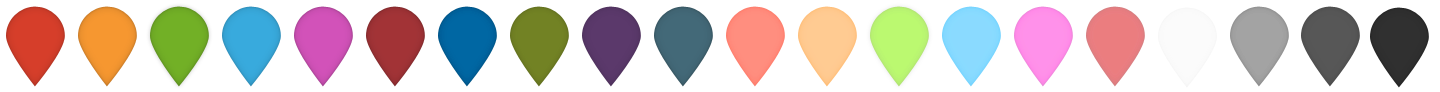
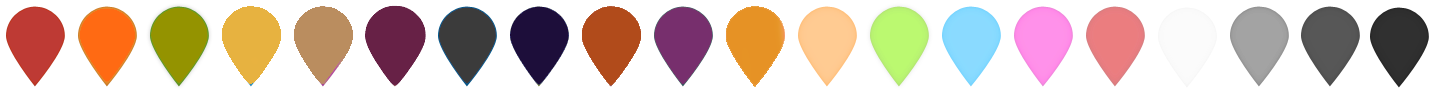
Improve colours, buttons, animations

Changed region(s): [[0.0312, 0.0652, 0.5625, 0.913]]

diff --git a/css/map.css b/css/map.css
@@ -121,8 +121,8 @@ html, body, #map {
 .persona-button {
     appearance: none;
     -webkit-appearance: none;
-    background: #ecebeb;
-    border: 0.5px solid #DEE0E2;
+    background: #ECEBEB;
+    border: 1px solid #DEE0E2;
     border-radius: 3px;
     box-sizing: border-box;
     color: #000;
@@ -137,6 +137,20 @@ html, body, #map {
     text-align: center;
     text-decoration: none;
     width: calc(50% - 6px);
+}
+
+@keyframes fade {
+    0% {
+        background: #fff;
+    }
+    100% {
+        background: #ECEBEB;
+    }
+}
+
+.persona-button--loading {
+    background: #fff;
+    animation: fade 2s 0s forwards;
 }
 
 @media (min-width: 768px) {
@@ -161,9 +175,30 @@ html, body, #map {
     color: #ffffff;
 }
 
+.persona-button:nth-child(1):hover .button-icon {
+    transform: rotate(15deg);
+}
+
+.persona-button:nth-child(2):hover .button-icon {
+    transform: scale(1.1, 1.1);
+}
+
+.persona-button:nth-child(3):hover .button-icon {
+    transform: translateY(-5px);
+}
+
+.persona-button:nth-child(4):hover .button-icon {
+    transform: rotate(180deg);
+}
+
 .button-text,
 .button-icon {
     pointer-events: none;
+}
+
+.button-icon {
+    position: relative;
+    transition: transform 350ms;
 }
 
 .persona-icon {
@@ -171,14 +206,31 @@ html, body, #map {
     margin: 0 auto;
 }
 
+@keyframes hide {
+    0% {
+        opacity: 1;
+    }
+    100% {
+        opacity: 0;
+    }
+}
+
+.persona-button--loading .persona-icon-active {
+    opacity: 0;
+    animation: hide 2s 0s forwards;
+}
+
 .persona-icon-active {
-    display: none;
     margin: 0 auto;
+    position: absolute;
+    top: 0;
+    left: 0;
+    opacity: 0;
 }
 
 .persona-button:active .persona-icon-active,
 .persona-button--active .persona-icon-active {
-    display: block;
+    opacity: 1;
 }
 
 .persona-button:active,
@@ -191,7 +243,7 @@ html, body, #map {
 
 .persona-button:active .persona-icon,
 .persona-button--active .persona-icon {
-    display: none;
+    opacity: 0;
 }
 
 .button-text {

diff --git a/js/load-layers-as-list.js b/js/load-layers-as-list.js
@@ -1,22 +1,15 @@
 var leafletMarkerColours = {
-  "red": "#d43e2a",
-  "orange": "#F69730",
-  "green": "#70ad26",
-  "blue": "#38aadd",
-  "purple": "#D252BA",
-  "darkred": "#a23336",
-  "darkblue": "#0e67a3",
-  "darkgreen": "#728224",
-  "darkpurple": "#5b396b",
-  "cadetblue": "#436978",
-  "lightred": "#fc8e7f",
-  "beige": "#ffcb92",
-  "lightgreen": "#bbf970",
-  "lightblue": "#8adaff",
-  "pink": "#ff91ea",
-  "lightgray": "#a3a3a3",
-  "gray": "#575757",
-  "black": "#3b3b3b"
+  "red": "#be3a35",
+  "orange": "#ff6b15",
+  "green": "#959300",
+  "blue": "#e6b141",
+  "purple": "#b98d5e",
+  "darkred": "#682146",
+  "darkblue": "#3b3b3b",
+  "darkgreen": "#1c0e3a",
+  "darkpurple": "#b14b1c",
+  "cadetblue": "#772f6d",
+  "lightred": "#e69225"
 }
 
 //READ MAP CONFIG, LOAD ALL LAYERS, PUT THEM IN GROUPS, CREATE ONE LAYER CONTROL AND ONE EASYBUTTON PER GROUP
@@ -176,6 +169,11 @@ function loadLayers(mapConfig) {
 function createEasyButtons(layerGroup, layers, overlayMaps, layercontrol, n, keepAllInLayerControl){
   var button = document.createElement('button');
   button.classList.add('persona-button');
+  button.classList.add('persona-button--loading');
+
+  setTimeout(function() {
+    button.classList.remove('persona-button--loading');
+  }, 2000);
   button.setAttribute('id', 'persona-button-' + n);
   // reintroduce below line when adding in icons
   
